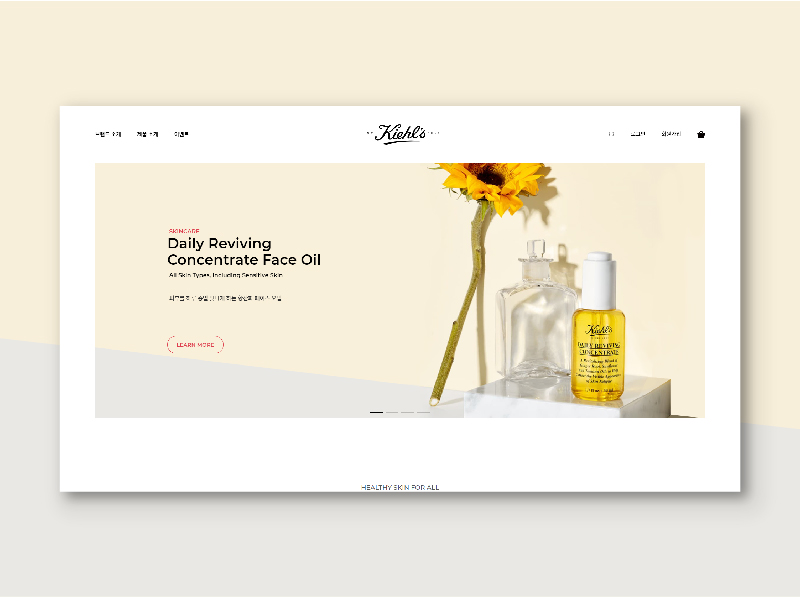
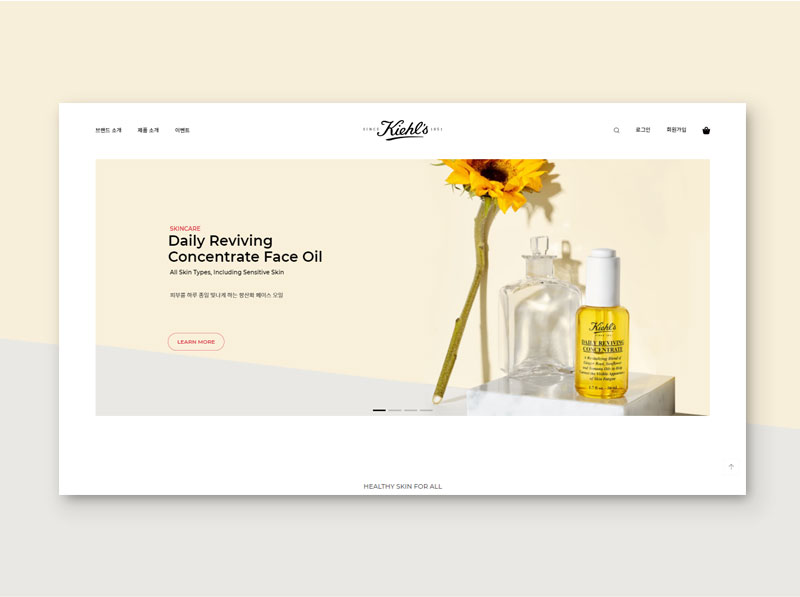
modify menu overlay css, update Kiehls project IMG

Changed region(s): [[0.0625, 0.1508, 0.9375, 0.8442], [0.1875, 0.3618, 0.4062, 0.5126], [0.2188, 0.5427, 0.2812, 0.603]]

diff --git a/works/work.css b/works/work.css
@@ -95,9 +95,11 @@ footer .gitblog_link img {width:30px;}
     /* header */
     nav {height:50px;}
     .menu_icon {top:11px;}
-
+    .overlay {display:none;}
     /* contents */
     .container .contents article h1 {top:50px; left:10.9375%; font-size: 35px;}
+    .container .contents article .box .image img {transition: 300ms ease;}
+    .container .contents article .box .image:hover img {transform: scale(1.05);box-shadow:0 20px 30px 0 rgba(65,58,58,.25); opacity: 0.9;}
     .container .contents article .box .image img {display:block; max-width: 800px; margin:0 auto;}
     .container .contents article .box .info {max-width:800px; padding:30px 0; margin: 0 auto;}
     .container .contents article .box .info p {font-size: 16px;}

diff --git a/about/about.css b/about/about.css
@@ -184,6 +184,7 @@ footer .gitblog_link img {width:30px;}
     nav ul {padding:0; margin:0; list-style:none; display: flex;}
     nav ul li a {margin-left:30px;}
     nav ul li a {text-decoration:none; color:#000; position: relative; display:inline-block;}
+    .overlay {display:none;}
     /* li:hover highlighter effect */
     nav ul li a::after {content:''; display:block; width:100%; height:0.4em; background:#90b7f0; position:absolute; bottom:0.15em; left:0; z-index:-1; transform:scaleX(0);-webkit-transform-origin: right top; transform-origin: right top; transition: -webkit-transform 0.3s ease-in; transition: transform 0.3s ease-in;}
     nav ul li:nth-child(2) a::after {transform:scaleX(1);}

diff --git a/contact/contact.css b/contact/contact.css
@@ -78,6 +78,7 @@ nav ul {display:none;}
 /* --------------- tablet screen --------------- */
 @media screen and (min-width:768px) {
     nav {height:50px;}
+    .overlay {display:none;}
     .menu_icon {top:11px;}
     h2 {font-size:2.188rem;}
     h3 {font-size:1.375rem;}
